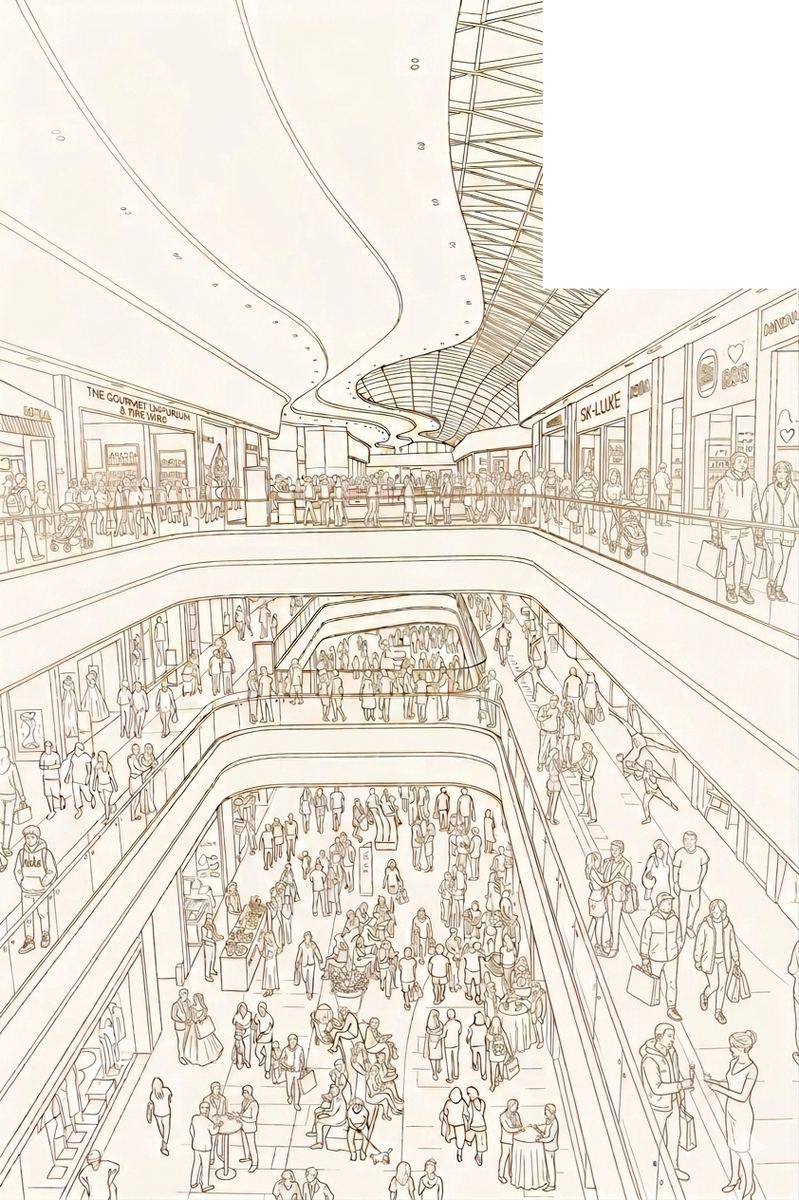
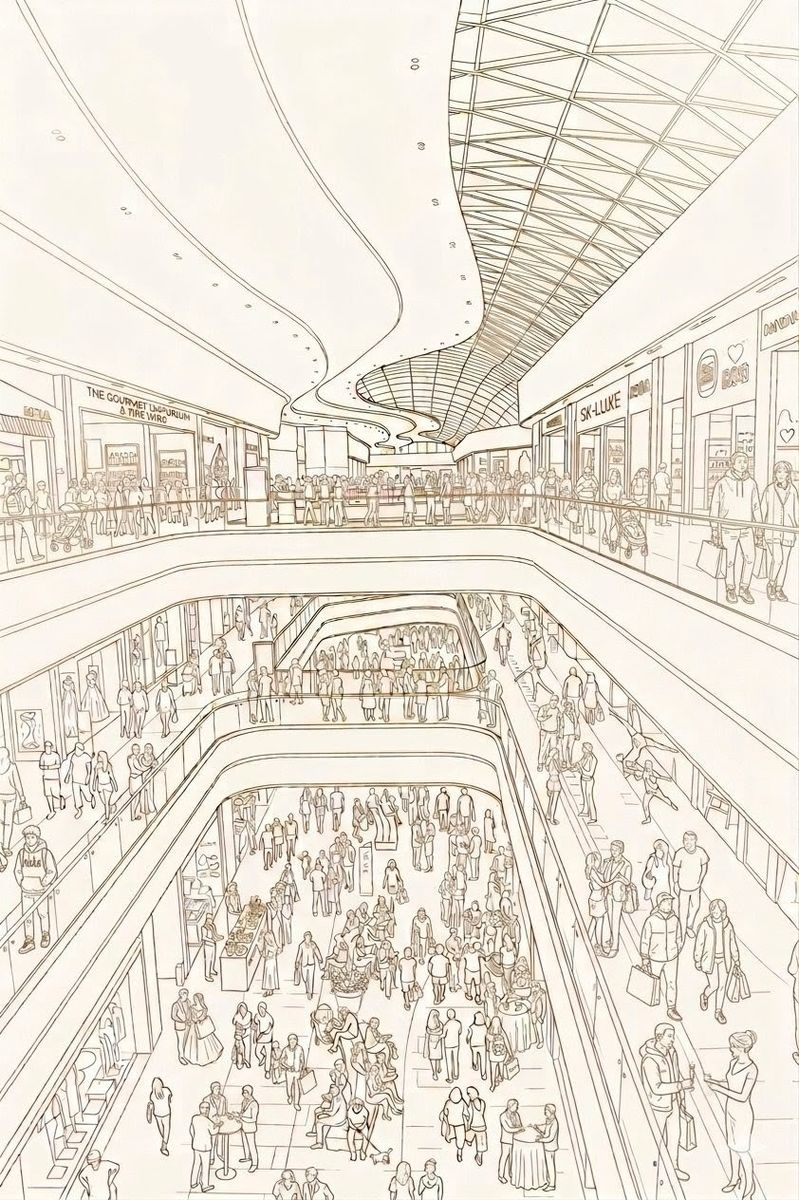
ui: clean source image, push bg further back (55% cream wash)

Changed region(s): [[0.6608, 0.0, 1.0, 0.2467]]

diff --git a/index.html b/index.html
@@ -32,7 +32,7 @@
   }
   html { font-size: 16px; }
   /* Mall line-art bg, home page only. Translucent cream wash on top fades it. */
-  body { background: linear-gradient(rgba(250,247,242,0.30), rgba(250,247,242,0.30)) center / cover fixed no-repeat, url('bg-mall.jpg') center / cover fixed no-repeat, var(--cream); color: var(--ink); font-family: 'Inter', sans-serif; font-weight: 400; font-size: 17px; line-height: 1.5; min-height: 100vh; -webkit-font-smoothing: antialiased; -moz-osx-font-smoothing: grayscale; text-rendering: optimizeLegibility; letter-spacing: -0.005em; }
+  body { background: linear-gradient(rgba(250,247,242,0.55), rgba(250,247,242,0.55)) center / cover fixed no-repeat, url('bg-mall.jpg') center / cover fixed no-repeat, var(--cream); color: var(--ink); font-family: 'Inter', sans-serif; font-weight: 400; font-size: 17px; line-height: 1.5; min-height: 100vh; -webkit-font-smoothing: antialiased; -moz-osx-font-smoothing: grayscale; text-rendering: optimizeLegibility; letter-spacing: -0.005em; }
   body.is-centre-view { background: var(--cream); }
   /* Landing backdrop — sits behind the search hero on the home page only.
      Fixed to viewport bottom so the line-art arcade reads as ground beneath